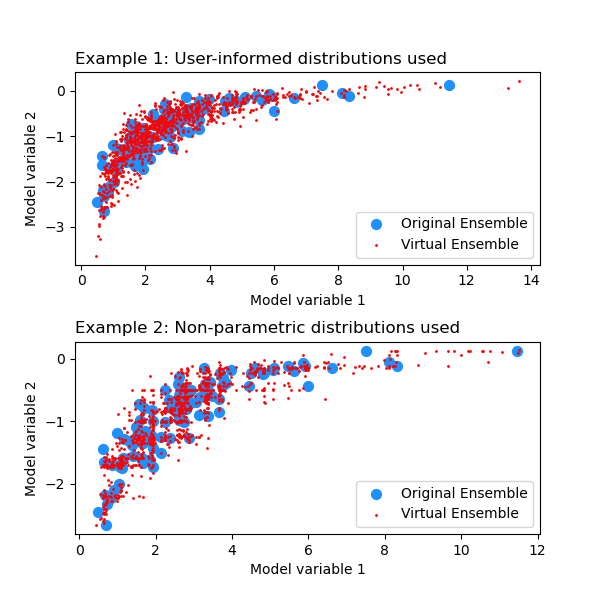
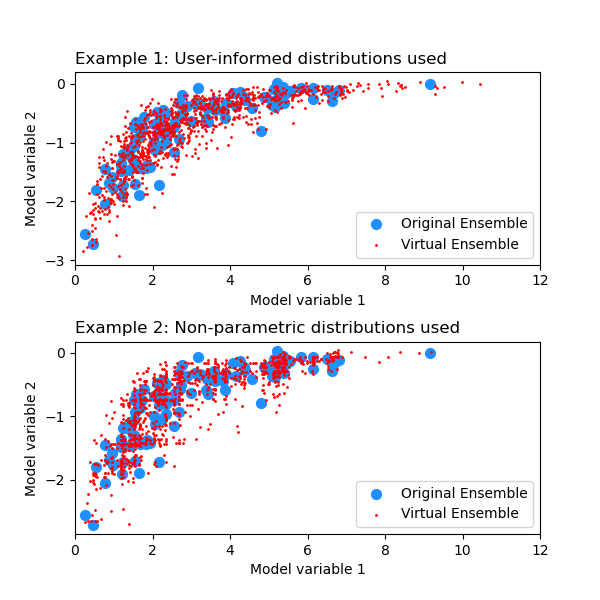
overhauled PESE_GC for memory efficiency.
Tested overhauled pese-gc with demo code. looks ok

diff --git a/pyPESE/pese_gc.py b/pyPESE/pese_gc.py
@@ -6,6 +6,7 @@
     List of functions:
     ------------------
     1) pese_gc
+            Function to call PESE-GC.
 '''
 
 # Load standard Python packages
@@ -13,7 +14,7 @@ import numpy as np
 from scipy.stats import norm
 
 # Load pyPESE's custom packages
-from pyPESE.resampling.gaussian_resampling import fast_unlocalized_gaussian_resampling
+from pyPESE.resampling.gaussian_resampling import compute_unlocalized_gaussian_resampling_coefficients
 
 
 
@@ -60,55 +61,44 @@ def pese_gc( fcst_ens_2d, list_of_dist_classes, num_virt_ens, rng_seed=0 ):
         quit()
 
 
-    # Step 1: Fit distributions
-    # -------------------------
-    list_of_fitted_dists = []
-    for ivar in range( num_variables ):
-        # Determine distribution parameters
-        params = list_of_dist_classes[ivar].fit( fcst_ens_2d[ivar,:])
-        # Specify parameters into distribution classes
-        list_of_fitted_dists.append(
-            list_of_dist_classes[ivar]( *params )
-        )
-    # --- End of loop over variables
-    
-
-    # Step 2: Transform forecast ensemble into probit space
-    # ------------------------------------------------------
-    fcst_probit_2d = np.zeros( (num_variables, num_fcst_ens) )
-
-    # Map from native space to quantile space
-    for ivar in range( num_variables ):
-        # Map to quantile space
-        fcst_probit_2d[ivar,:] = list_of_fitted_dists[ivar].cdf( fcst_ens_2d[ivar,:] )
-    # --- End of loop over variables
-    
-    # Map from quantile space to probit space
-    fcst_probit_2d[:,:] = norm.ppf( fcst_probit_2d )
-
-    # Enforcing zero mean and unity variance conditions
-    fcst_probit_2d[:,:] = ( 
-        ( fcst_probit_2d.T - np.mean( fcst_probit_2d, axis=1) ) 
-        / np.std( fcst_probit_2d, ddof=1, axis=1 )
-    ).T
-
-
-    # Step 3: Evoke fast Gaussian resampling
-    # ---------------------------------------
-    virt_probit_2d = fast_unlocalized_gaussian_resampling( 
-        fcst_probit_2d, num_virt_ens, rng_seed = rng_seed 
+    # Generate Gaussian resampling coefficient matrix
+    gauss_resamp_matrix = compute_unlocalized_gaussian_resampling_coefficients( 
+        num_fcst_ens, num_virt_ens, rng_seed=rng_seed 
     )
 
-    
-    # Step 4: Map virtual probits into native space
-    # ---------------------------------------------
 
-    # First, map to quantile space
-    virt_ens_2d = norm.cdf( virt_probit_2d )
+    # Init array to hold the virtual ensemble
+    virt_ens_2d = np.zeros( [num_variables, num_virt_ens] )
 
-    # Then, use fitted distributions to map from quantile space to native space
+    # Init array to hold fcst and virtual probits
+    fcst_probit = np.zeros( [1, num_fcst_ens] )
+
+
+    # For memory efficiency, only applying PESE-GC on one variable at a time.
     for ivar in range( num_variables ):
-        virt_ens_2d[ivar,:] = list_of_fitted_dists[ivar].ppf( virt_ens_2d[ivar,:] )
+
+        # Step 1: Fit distribution to fcst ensembel for selected variable
+        params = list_of_dist_classes[ivar].fit( fcst_ens_2d[ivar,:])
+        fitted_dist = list_of_dist_classes[ivar]( *params )
+
+        # Step 2: Transform forecast ensemble into probit space
+        fcst_probit[0,:] = norm.ppf( 
+            fitted_dist.cdf( fcst_ens_2d[ivar,:] )
+        )
+        fcst_probit -= np.mean(fcst_probit)
+        fcst_probit /= np.std( fcst_probit, ddof=1)
+
+        # Step 3: Apply fast Gaussian resampling
+        virt_probit = ( np.matmul( fcst_probit, gauss_resamp_matrix ) )
+
+        # Step 4: Invert PPI transforms on virtual probits
+        virt_ens_2d[ivar,:] = (
+            fitted_dist.ppf(
+                norm.cdf( virt_probit[0,:] )
+            )
+        )
+
+    # --- End of loop over variables
 
     
     return virt_ens_2d

diff --git a/demo_pyPESE.py b/demo_pyPESE.py
@@ -90,6 +90,7 @@ axs[1].legend()
 for i in range(2):
     axs[i].set_xlabel('Model variable 1')
     axs[i].set_ylabel('Model variable 2')
+    axs[i].set_xlim([0,12])
 
 
 fig.subplots_adjust( hspace=0.4)
